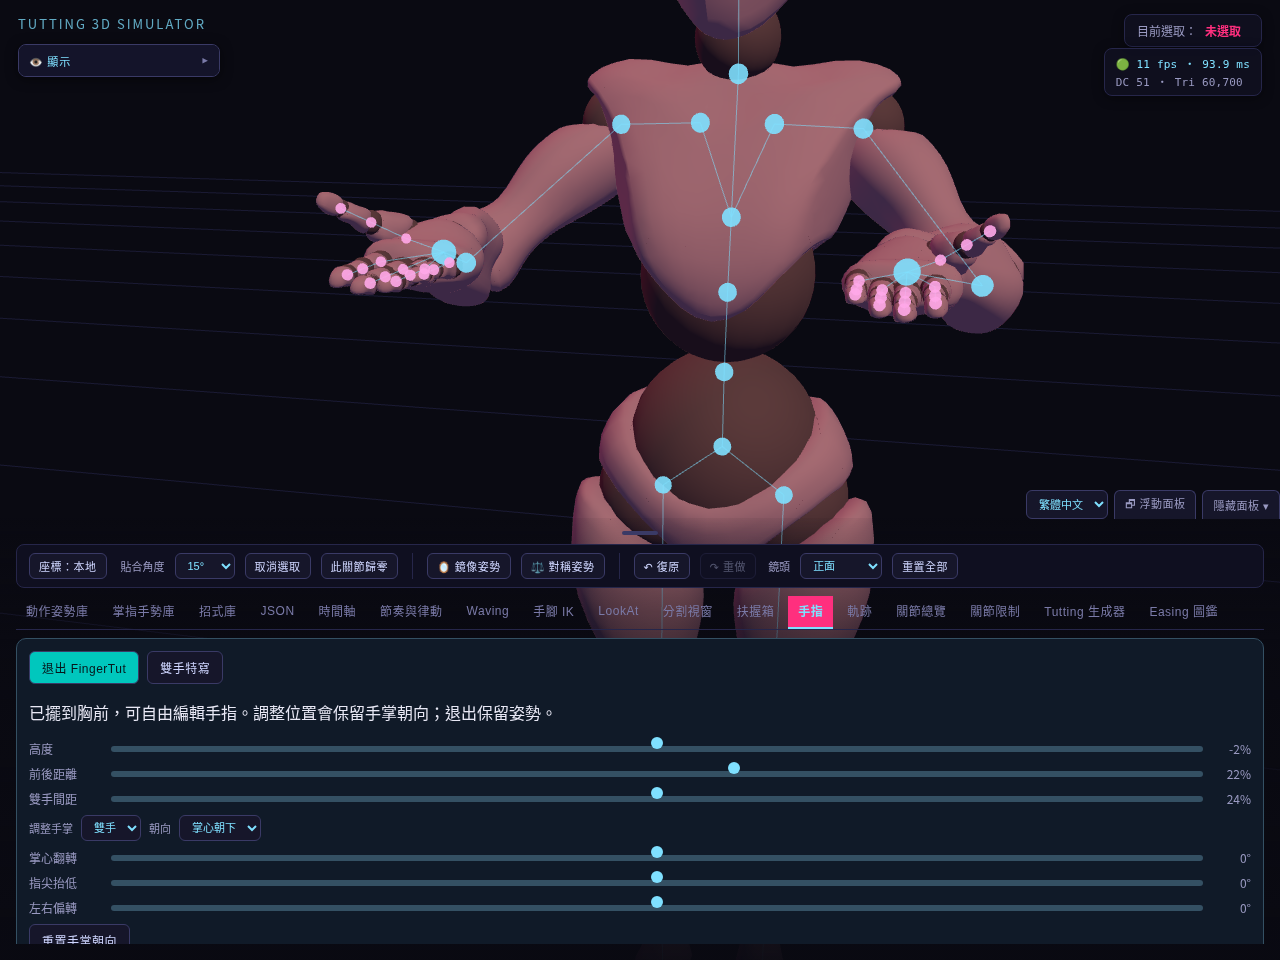
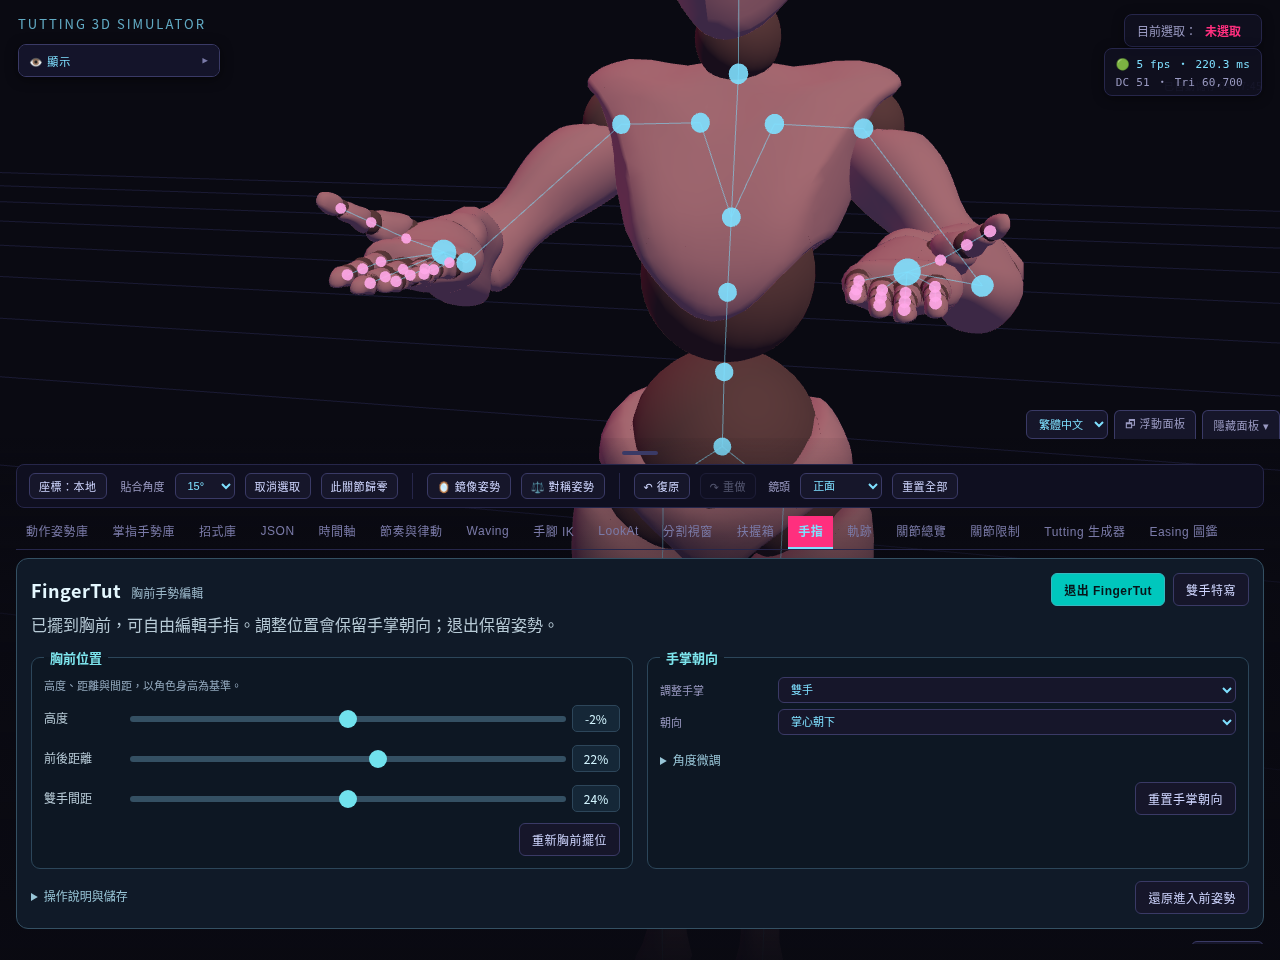
feat: organize FingerTut controls into responsive settings cards

Changed region(s): [[0.0, 0.4688, 1.0, 1.0], [0.8125, 0.4375, 1.0, 0.4688]]

diff --git a/index.html b/index.html
@@ -931,19 +931,38 @@
 
     <div class="tabPanel" data-tab="fingers" id="tabFingers">
       <section class="fingerTutPanel" aria-label="FingerTut 胸前編輯模式" data-i18n-aria-label="FingerTut 胸前編輯模式">
-        <div class="row"><button id="fingerTutToggle" type="button" aria-pressed="false"><span data-i18n="開啟 FingerTut">開啟 FingerTut</span></button><button id="fingerTutFocus" type="button" disabled data-i18n="雙手特寫">雙手特寫</button></div>
-        <p id="fingerTutStatus" class="small" role="status"></p>
-        <label class="fingerTutSlider" for="fingerTut_height"><span data-i18n="高度">高度</span><input id="fingerTut_height" type="range" min="-12" max="8" step="1" value="-2" disabled><output id="fingerTut_heightValue">-2%</output></label>
-        <label class="fingerTutSlider" for="fingerTut_distance"><span data-i18n="前後距離">前後距離</span><input id="fingerTut_distance" type="range" min="14" max="28" step="1" value="22" disabled><output id="fingerTut_distanceValue">22%</output></label>
-        <label class="fingerTutSlider" for="fingerTut_spacing"><span data-i18n="雙手間距">雙手間距</span><input id="fingerTut_spacing" type="range" min="12" max="36" step="1" value="24" disabled><output id="fingerTut_spacingValue">24%</output></label>
-        <div class="row"><label for="fingerTutSide"><span data-i18n="調整手掌">調整手掌</span></label><select id="fingerTutSide" disabled><option value="both" data-i18n="雙手">雙手</option><option value="r" data-i18n="右手">右手</option><option value="l" data-i18n="左手">左手</option></select><label for="fingerTutPreset"><span data-i18n="朝向">朝向</span></label><select id="fingerTutPreset" disabled><option value="down" data-i18n="掌心朝下">掌心朝下</option><option value="up" data-i18n="掌心朝上">掌心朝上</option><option value="in" data-i18n="掌心相對">掌心相對</option><option value="out" data-i18n="掌心朝外">掌心朝外</option><option value="camera" data-i18n="朝向鏡頭">朝向鏡頭</option><option value="mixed" disabled data-i18n="左右不同">左右不同</option></select></div>
-        <label class="fingerTutSlider" for="fingerTut_flip"><span data-i18n="掌心翻轉">掌心翻轉</span><input id="fingerTut_flip" type="range" min="-180" max="180" step="1" value="0" disabled><output id="fingerTut_flipValue">0°</output></label>
-        <label class="fingerTutSlider" for="fingerTut_tilt"><span data-i18n="指尖抬低">指尖抬低</span><input id="fingerTut_tilt" type="range" min="-90" max="90" step="1" value="0" disabled><output id="fingerTut_tiltValue">0°</output></label>
-        <label class="fingerTutSlider" for="fingerTut_yaw"><span data-i18n="左右偏轉">左右偏轉</span><input id="fingerTut_yaw" type="range" min="-90" max="90" step="1" value="0" disabled><output id="fingerTut_yawValue">0°</output></label>
-        <div class="row"><button id="fingerTutPalmReset" type="button" disabled data-i18n="重置手掌朝向">重置手掌朝向</button></div>
-        <p class="small"><span data-i18n="角度以所選朝向為基準，雙手採鏡像調整。左右角度不同時顯示「不同」；移動滑桿會套用到所選手掌。「朝向鏡頭」對準按下時的鏡頭，不持續追蹤。">角度以所選朝向為基準，雙手採鏡像調整。左右角度不同時顯示「不同」；移動滑桿會套用到所選手掌。「朝向鏡頭」對準按下時的鏡頭，不持續追蹤。</span></p>
-        <div class="row"><button id="fingerTutRecenter" type="button" disabled data-i18n="重新胸前擺位">重新胸前擺位</button><button id="fingerTutRestore" type="button" disabled data-i18n="還原進入前姿勢">還原進入前姿勢</button></div>
-        <p class="small"><span data-i18n="百分比以角色身高為基準。進入時停止播放／Wave／律動預覽，解除手臂、手指 IK 與手掌朝向接管。要保存成果，請新增拍點或儲存手勢。">百分比以角色身高為基準。進入時停止播放／Wave／律動預覽，解除手臂、手指 IK 與手掌朝向接管。要保存成果，請新增拍點或儲存手勢。</span></p>
+        <header class="fingerTutHeader">
+          <div><h2>FingerTut</h2><p data-i18n="胸前手勢編輯">胸前手勢編輯</p></div>
+          <div class="fingerTutActions"><button id="fingerTutToggle" type="button" aria-pressed="false"><span data-i18n="開啟 FingerTut">開啟 FingerTut</span></button><button id="fingerTutFocus" type="button" disabled data-i18n="雙手特寫">雙手特寫</button></div>
+        </header>
+        <p id="fingerTutStatus" class="small" role="status" aria-live="polite"></p>
+        <div class="fingerTutSettings">
+          <fieldset class="fingerTutCard">
+            <legend data-i18n="胸前位置">胸前位置</legend>
+            <p class="fingerTutCardHint" data-i18n="高度、距離與間距，以角色身高為基準。">高度、距離與間距，以角色身高為基準。</p>
+            <label class="fingerTutSlider" for="fingerTut_height"><span data-i18n="高度">高度</span><input id="fingerTut_height" type="range" min="-12" max="8" step="1" value="-2" disabled><output id="fingerTut_heightValue">-2%</output></label>
+            <label class="fingerTutSlider" for="fingerTut_distance"><span data-i18n="前後距離">前後距離</span><input id="fingerTut_distance" type="range" min="14" max="28" step="1" value="22" disabled><output id="fingerTut_distanceValue">22%</output></label>
+            <label class="fingerTutSlider" for="fingerTut_spacing"><span data-i18n="雙手間距">雙手間距</span><input id="fingerTut_spacing" type="range" min="12" max="36" step="1" value="24" disabled><output id="fingerTut_spacingValue">24%</output></label>
+            <div class="fingerTutCardActions"><button id="fingerTutRecenter" type="button" disabled data-i18n="重新胸前擺位">重新胸前擺位</button></div>
+          </fieldset>
+          <fieldset class="fingerTutCard">
+            <legend data-i18n="手掌朝向">手掌朝向</legend>
+            <div class="fingerTutPalmSelectors"><label for="fingerTutSide"><span data-i18n="調整手掌">調整手掌</span></label><select id="fingerTutSide" disabled><option value="both" data-i18n="雙手">雙手</option><option value="r" data-i18n="右手">右手</option><option value="l" data-i18n="左手">左手</option></select><label for="fingerTutPreset"><span data-i18n="朝向">朝向</span></label><select id="fingerTutPreset" disabled><option value="down" data-i18n="掌心朝下">掌心朝下</option><option value="up" data-i18n="掌心朝上">掌心朝上</option><option value="in" data-i18n="掌心相對">掌心相對</option><option value="out" data-i18n="掌心朝外">掌心朝外</option><option value="camera" data-i18n="朝向鏡頭">朝向鏡頭</option><option value="mixed" disabled data-i18n="左右不同">左右不同</option></select></div>
+            <details class="fingerTutFineTune"><summary data-i18n="角度微調">角度微調</summary>
+            <label class="fingerTutSlider" for="fingerTut_flip"><span data-i18n="掌心翻轉">掌心翻轉</span><input id="fingerTut_flip" type="range" min="-180" max="180" step="1" value="0" disabled><output id="fingerTut_flipValue">0°</output></label>
+            <label class="fingerTutSlider" for="fingerTut_tilt"><span data-i18n="指尖抬低">指尖抬低</span><input id="fingerTut_tilt" type="range" min="-90" max="90" step="1" value="0" disabled><output id="fingerTut_tiltValue">0°</output></label>
+            <label class="fingerTutSlider" for="fingerTut_yaw"><span data-i18n="左右偏轉">左右偏轉</span><input id="fingerTut_yaw" type="range" min="-90" max="90" step="1" value="0" disabled><output id="fingerTut_yawValue">0°</output></label>
+            </details>
+            <div class="fingerTutCardActions"><button id="fingerTutPalmReset" type="button" disabled data-i18n="重置手掌朝向">重置手掌朝向</button></div>
+          </fieldset>
+        </div>
+        <footer class="fingerTutFooter">
+          <details class="fingerTutHelp"><summary data-i18n="操作說明與儲存">操作說明與儲存</summary>
+            <p class="small"><span data-i18n="角度以所選朝向為基準，雙手採鏡像調整。左右角度不同時顯示「不同」；移動滑桿會套用到所選手掌。「朝向鏡頭」對準按下時的鏡頭，不持續追蹤。">角度以所選朝向為基準，雙手採鏡像調整。左右角度不同時顯示「不同」；移動滑桿會套用到所選手掌。「朝向鏡頭」對準按下時的鏡頭，不持續追蹤。</span></p>
+            <p class="small"><span data-i18n="百分比以角色身高為基準。進入時停止播放／Wave／律動預覽，解除手臂、手指 IK 與手掌朝向接管。要保存成果，請新增拍點或儲存手勢。">百分比以角色身高為基準。進入時停止播放／Wave／律動預覽，解除手臂、手指 IK 與手掌朝向接管。要保存成果，請新增拍點或儲存手勢。</span></p>
+          </details>
+          <button id="fingerTutRestore" type="button" disabled data-i18n="還原進入前姿勢">還原進入前姿勢</button>
+        </footer>
       </section>
       <div class="panelTitle" style="display:flex; align-items:center; gap:6px;"><span data-i18n="手指 FK／IK — 按鈕選指節，旋轉環微調（根／中／末＝第1／2／3節，hover 看全名）；列尾「IK」可切換為拖曳指尖青色球自動彎曲。">手指 FK／IK — 按鈕選指節，旋轉環微調（根／中／末＝第1／2／3節，hover 看全名）；列尾「IK」可切換為拖曳指尖青色球自動彎曲。</span>
         <span class="kfInfoIcon" title="手指彎曲方向的局部軸是合理猜測、未經實機渲染驗證；若旋轉方向不是彎曲方向請自行試其他軸向，手指IK用CCD動態算軸不受此限制影響" data-i18n-title="手指彎曲方向的局部軸是合理猜測、未經實機渲染驗證；若旋轉方向不是彎曲方向請自行試其他軸向，手指IK用CCD動態算軸不受此限制影響">⚠</span>

diff --git a/styles/simulator.css b/styles/simulator.css
@@ -706,15 +706,54 @@
   .customTooltip { display:none; }
 }
 
-.fingerTutPanel { border:1px solid #345063; border-radius:10px; padding:12px; margin-bottom:12px; background:#101a28; }
-.fingerTutPanel .row { flex-wrap:wrap; }
+.fingerTutPanel { border:1px solid #345063; border-radius:12px; padding:14px; margin-bottom:12px; background:#101a28; }
+.fingerTutHeader { display:flex; align-items:center; justify-content:space-between; gap:12px; flex-wrap:wrap; }
+.fingerTutHeader > div:first-child { display:flex; align-items:baseline; flex-wrap:wrap; gap:4px 10px; }
+.fingerTutHeader h2 { margin:0; font-size:18px; letter-spacing:.5px; color:#e5f8ff; }
+.fingerTutHeader p { margin:0; font-size:12px; color:#9cb9ca; }
+.fingerTutActions { display:flex; flex-wrap:wrap; gap:8px; }
+#fingerTutToggle { border-color:#36b8bf; color:#c5fbff; background:#123540; font-weight:600; }
 #fingerTutToggle[aria-pressed=true] { background:#00c7bd; color:#07151a; }
-.fingerTutSlider { display:grid; grid-template-columns:72px minmax(0,1fr) 42px; gap:8px; align-items:center; margin:8px 0; font-size:12px; }
-.fingerTutSlider input { width:100%; min-width:0; background:transparent; border:0; padding:0; accent-color:#00c7bd; }
-.fingerTutSlider output { text-align:right; }
+#fingerTutStatus { margin:6px 0 10px; line-height:1.6; color:#b7cad6; }
+.fingerTutSettings { display:grid; grid-template-columns:repeat(auto-fit,minmax(min(100%,300px),1fr)); gap:14px; }
+.fingerTutCard { min-width:0; margin:0; padding:10px 12px 12px; border:1px solid #2c465a; border-radius:9px; background:#0d1723; }
+.fingerTutCard legend { padding:0 6px; font-size:13px; font-weight:600; color:#7de5ed; }
+.fingerTutCardHint { margin:0 0 6px; font-size:11px; line-height:1.6; color:#92a8bd; }
+.fingerTutPalmSelectors { display:grid; grid-template-columns:110px minmax(0,1fr); gap:6px 8px; align-items:center; margin-bottom:6px; font-size:12px; color:#b7cad6; }
+.fingerTutPalmSelectors select { min-width:0; width:100%; }
+.fingerTutSlider { display:grid; grid-template-columns:76px minmax(0,1fr) 48px; gap:8px; align-items:center; margin:4px 0; font-size:12px; color:#b7cad6; }
+.fingerTutSlider > span { min-width:0; white-space:normal; overflow-wrap:anywhere; line-height:1.4; }
+.fingerTutFineTune { margin-top:8px; }
+.fingerTutFineTune summary { cursor:pointer; padding:8px 0; font-size:12px; color:#98c5d7; }
+.fingerTutSlider input { width:100%; min-width:0; height:32px; background:transparent; border:0; padding:0; accent-color:#00c7bd; cursor:pointer; }
+.fingerTutSlider output { padding:4px; box-sizing:border-box; border:1px solid #2d465a; border-radius:5px; background:#152737; color:#d3f5ff; text-align:center; font-variant-numeric:tabular-nums; }
+.fingerTutSlider input:disabled { opacity:.4; cursor:default; }
+.fingerTutSlider input:disabled + output { color:#7d92a4; }
 .fingerTutSlider input::-webkit-slider-runnable-track { height:6px; border-radius:999px; background:#345063; }
-.fingerTutSlider input::-webkit-slider-thumb { margin-top:-9px; }
+.fingerTutSlider input::-webkit-slider-thumb { width:18px; height:18px; margin-top:-6px; border-radius:50%; background:#70e2ed; }
 .fingerTutSlider input::-moz-range-track { height:6px; border-radius:999px; background:#345063; }
+.fingerTutSlider input::-moz-range-thumb { width:18px; height:18px; border:0; border-radius:50%; background:#70e2ed; }
+.fingerTutCardActions { display:flex; justify-content:flex-end; margin-top:6px; }
+.fingerTutFooter { display:flex; align-items:flex-start; justify-content:space-between; gap:12px; margin-top:12px; }
+.fingerTutHelp { min-width:0; flex:1; }
+.fingerTutHelp summary { cursor:pointer; padding:6px 0; color:#98c5d7; font-size:12px; }
+.fingerTutHelp p { line-height:1.7; color:#9db2c4; }
+.fingerTutFooter > button { flex-shrink:0; }
+@media (max-width:640px), (pointer:coarse) and (max-width:960px) and (max-height:500px) {
+  .fingerTutPanel { padding:10px; }
+  .fingerTutSettings { grid-template-columns:1fr; gap:12px; }
+  .fingerTutCard { padding:8px; }
+  .fingerTutActions { width:100%; }
+  .fingerTutActions button { flex:1; }
+  .fingerTutPalmSelectors { grid-template-columns:80px minmax(0,1fr); }
+  .fingerTutSlider { grid-template-columns:80px minmax(0,1fr) 44px; gap:6px; }
+  .fingerTutSlider input { height:44px; }
+  .fingerTutSlider input::-webkit-slider-thumb { width:24px; height:24px; margin-top:-9px; }
+  .fingerTutSlider input::-moz-range-thumb { width:24px; height:24px; }
+  .fingerTutFineTune summary, .fingerTutHelp summary { min-height:44px; box-sizing:border-box; padding:12px 0; }
+  .fingerTutFooter { flex-wrap:wrap; }
+  .fingerTutHelp { flex-basis:100%; }
+}
 
 /* Language remains accessible when the mobile drawer is collapsed. */
 #languageSelect { max-width:120px; min-width:0; }
@@ -724,7 +763,7 @@
   #ui #uiTopBtnRow .uiTopBtn { padding:4px 6px; font-size:12px; }
 
 }
-html[lang="en"] .fingerTutSlider { grid-template-columns:110px minmax(0,1fr) 42px; }
+html[lang="en"] .fingerTutSlider { grid-template-columns:110px minmax(0,1fr) 48px; }
 @media (max-width:640px), (pointer:coarse) and (max-width:960px) and (max-height:500px) {
   html[lang="en"] #selectedStatusBox { flex-wrap:wrap; gap:3px 5px; }
   html[lang="en"] #selectedStatusBox > span:first-child { flex:none; white-space:nowrap; }
@@ -733,4 +772,8 @@ html[lang="en"] .fingerTutSlider { grid-template-columns:110px minmax(0,1fr) 42p
 }
 @media (pointer:coarse) and (min-width:641px) and (max-width:960px) and (max-height:500px) {
   #ui.mobileCollapsed { width:280px !important; }
+}
+
+@media (max-width:640px), (pointer:coarse) and (max-width:960px) and (max-height:500px) {
+  html[lang="en"] .fingerTutSlider { grid-template-columns:90px minmax(0,1fr) 44px; }
 }

diff --git a/src/i18n/batch3-messages.js b/src/i18n/batch3-messages.js
@@ -1,4 +1,10 @@
 export const batch3English = {
+  "角度微調": "Fine-tune angles",
+  "胸前手勢編輯": "Chest-level hand editing",
+  "胸前位置": "Hand placement",
+  "手掌朝向": "Palm orientation",
+  "高度、距離與間距，以角色身高為基準。": "Height, distance and spacing are relative to character height.",
+  "操作說明與儲存": "Instructions & saving",
   "3D Tutting 模擬器 · Day61 BG-6": "3D Tutting Simulator · Day61 BG-6",
   "把軀幹4段＋腿部4段共8段膠囊體（青色）、頭部球（青色）跟手掌的碰撞球（橘色）畫出來，方便邊看邊調半徑。跟「手部-身體碰撞回彈」開關是獨立的——只想看形狀、還不想讓手真的被推開時可以只開這個。半徑滑桿在「手腳IK」分頁的「進階/阻尼設定」裡。": "Show the eight torso and leg capsules plus the head sphere in cyan, and palm collision spheres in orange, to help adjust their radii. This is independent of hand–body collision correction, so you can inspect shapes without pushing the hands away. Radius sliders are under Limb IK → Advanced / damping settings.",
   "左下角顯示：「畫面 fps」＝實際呼叫 renderer.render() 的頻率（閒置降頻時會掉到約10fps）；「主循環 fps」＝ requestAnimationFrame 被排程呼叫的頻率（通常維持~60fps不受降頻影響，兩者的落差就是降頻機制省下來的量）；單幀耗時、Draw Calls、三角形數則來自 renderer.info，可用來抓效能瓶頸。": "Rendered FPS counts actual renderer.render() calls and drops to about 10 FPS when idle. Main-loop FPS counts requestAnimationFrame callbacks, usually around 60 FPS. The difference shows the work saved by idle rendering. Frame time, draw calls and triangle counts help identify performance bottlenecks.",

diff --git a/docs/basic-user-manual.md b/docs/basic-user-manual.md
@@ -42,8 +42,10 @@ python3 -m http.server 8000
 
 1. 點「手指」分頁，再按「開啟 FingerTut」。
 2. 雙手自動放到胸前，預設掌心朝下、指尖朝前，鏡頭切成雙手特寫。
-3. 使用「高度」「前後距離」「雙手間距」調整位置，滑桿放開後重新擺位。
+3. 在「胸前位置」卡片使用「高度」「前後距離」「雙手間距」調整位置，滑桿放開後重新擺位。
 4. 視角跑掉時按「雙手特寫」；修改身體姿勢後，可按「重新胸前擺位」。
+
+卡片下方的「操作說明與儲存」可展開查看詳細說明。
 
 開啟模式會停止時間軸、Wave 與律動預覽，並解除雙臂／手指 IK 與手掌朝向接管。若雙手正在扶握箱子，先到「扶握箱」取消扶握。
 
@@ -55,9 +57,9 @@ python3 -m http.server 8000
 
 **圖 3**：先選要調整哪一隻手，再選方向。
 
-1. 在「調整手掌」選「雙手」「右手」或「左手」。
+1. 在「手掌朝向」卡片的「調整手掌」選「雙手」「右手」或「左手」。
 2. 在「朝向」選掌心朝下、朝上、相對、朝外或朝向鏡頭。
-3. 用「掌心翻轉」「指尖抬低」「左右偏轉」微調。
+3. 展開「角度微調」，用「掌心翻轉」「指尖抬低」「左右偏轉」微調。
 4. 不滿意時按「重置手掌朝向」，只重置所選手掌，保留位置與手指形狀。
 
 選新的方向預設會將所選手掌的微調角度歸零；「朝向鏡頭」對準按下當時的鏡頭，不會一直追蹤鏡頭。
@@ -146,4 +148,4 @@ python3 -m http.server 8000
 CHROMIUM_PATH=/usr/bin/chromium node scripts/capture-basic-manual.mjs
 ```
 
-此指令拍攝七張真實介面截圖，並透過按鈕驗證 FingerTut、朝向預設、指節選取、三個不同姿勢、播放、編舞匯出／匯入、姿勢庫與手機收合／展開。只在測試瀏覽器使用同版本的本機 Three.js 與經 checksum 驗證的模型；不代表正式 CDN 的連線測試。
+此指令拍攝八張真實介面截圖（七張操作步驟與一張 FingerTut 未啟用畫面），並透過按鈕驗證 FingerTut、朝向預設、指節選取、三個不同姿勢、播放、編舞匯出／匯入、姿勢庫與手機收合／展開。只在測試瀏覽器使用同版本的本機 Three.js 與經 checksum 驗證的模型；不代表正式 CDN 的連線測試。

diff --git a/docs/fingertut-mode.md b/docs/fingertut-mode.md
@@ -21,6 +21,21 @@
 
 要跨次開啟保存姿勢，請新增拍點；手指形狀則可存入掌指手勢庫。模式開關、還原點與鏡頭不寫入專案檔，載入專案會清除模式工作區。
 
+## 介面配置
+
+- 頂部顯示模式名稱、狀態與主要操作：「開啟／退出 FingerTut」及「雙手特寫」。
+- 「胸前位置」卡片集中高度、前後距離、雙手間距與「重新胸前擺位」。
+- 「手掌朝向」卡片集中手掌選擇、朝向預設、可展開的「角度微調」與重置。常用預設先顯示，三個細調滑桿按需展開。
+- 桌面兩張卡片並排，手機與窄面板上下排列；滑桿數值就近顯示，手機觸控區至少 44px 高。
+- 長篇操作與儲存說明收在「操作說明與儲存」，可按標題展開。「還原進入前姿勢」保留在卡片下方。
+- 原有控制項 ID、角度範圍、保存格式及歷史操作沿用；布局調整不會重建控制項。
+
+![桌面未啟用 FingerTut 的設定介面](images/basic-manual/08-fingertut-inactive.png)
+
+![桌面 FingerTut 的位置與朝向設定卡](images/basic-manual/02-fingertut.png)
+
+![手機 FingerTut 設定卡](images/basic-manual/07-mobile.png)
+
 ## 語言切換
 
 主面板頂部可切換繁體中文／English，FingerTut 的控制、狀態、說明及手指按鈕同步翻譯。切換保留模式、手掌角度與 Undo／Redo，詳見 [語言切換](language-switching.md)。
@@ -59,6 +74,7 @@ FingerTut 測試在原始入口與打包入口，分別使用 1280×900、320×5
 10. 改雙手間距至 32%，包含重複 change 事件；一次 Undo 回到 24%。
 11. 退出保留姿勢；按還原按鈕，驗證同步還原的姿勢及原有 IK 目標。
 12. 全程確認沒有 JavaScript 執行錯誤。
+13. 驗證桌面設定卡並排、手機上下排列、滑桿點擊／觸控範圍及說明展開／收合。
 
 啟用中的 IK 還原後會繼續求解，因此還原姿勢在按鈕事件結束時驗證，避免把下一幀求解的正常變化視為還原失敗。
 
